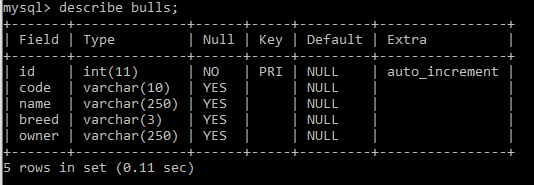
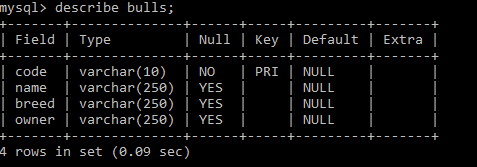
created table and inserted data, updated readme and added images of table and describe table in readme

diff --git a/README.md b/README.md
@@ -3,10 +3,21 @@ My project submission for the Data Representation module at GMIT 2020
 
 I have created a MySQL database called stockbullfinder which will contain details on stock bulls that are used in for breeding in the suckler beef breeding cattle system in Ireland. I have sourced the bulls details from the Irish Cattle Breeding Federation bull search - https://webapp.icbf.com/v2/app/bull-search. 
 
-I have created a table called bulls in the database that contains some basic information about each bull. The table has an auto incremented id for each bull which serves as the primary key followed by the bull's code and name, the bulls' breed and owner.
+I have created a table called bulls in the database that contains some basic information about each bull. 
 
-I intend to add a second table to the database later.
+* The AI code of each bull which serves as the primary key. Every bull has a unique code.
+* The name of each bull.
+* The breed of each bull.
+* The owner of each bull.
 
-I have added below a screenshot of the bulls table when the describe command is run in MySQL.
+The commands that were used to create the database and table and insert data into the table are saved in the folder SQL in this repository in a file called initdb.sql
+
+#### I have added below an image of the bulls table when the describe command is run in MySQL.
 
 ![describebulls](/images/describebulls.PNG)
+
+#### I have added below an image of data contained in the bulls table:
+
+![describebulls](/images/bulls.PNG)
+
+I intend to add a second table to the database later.
